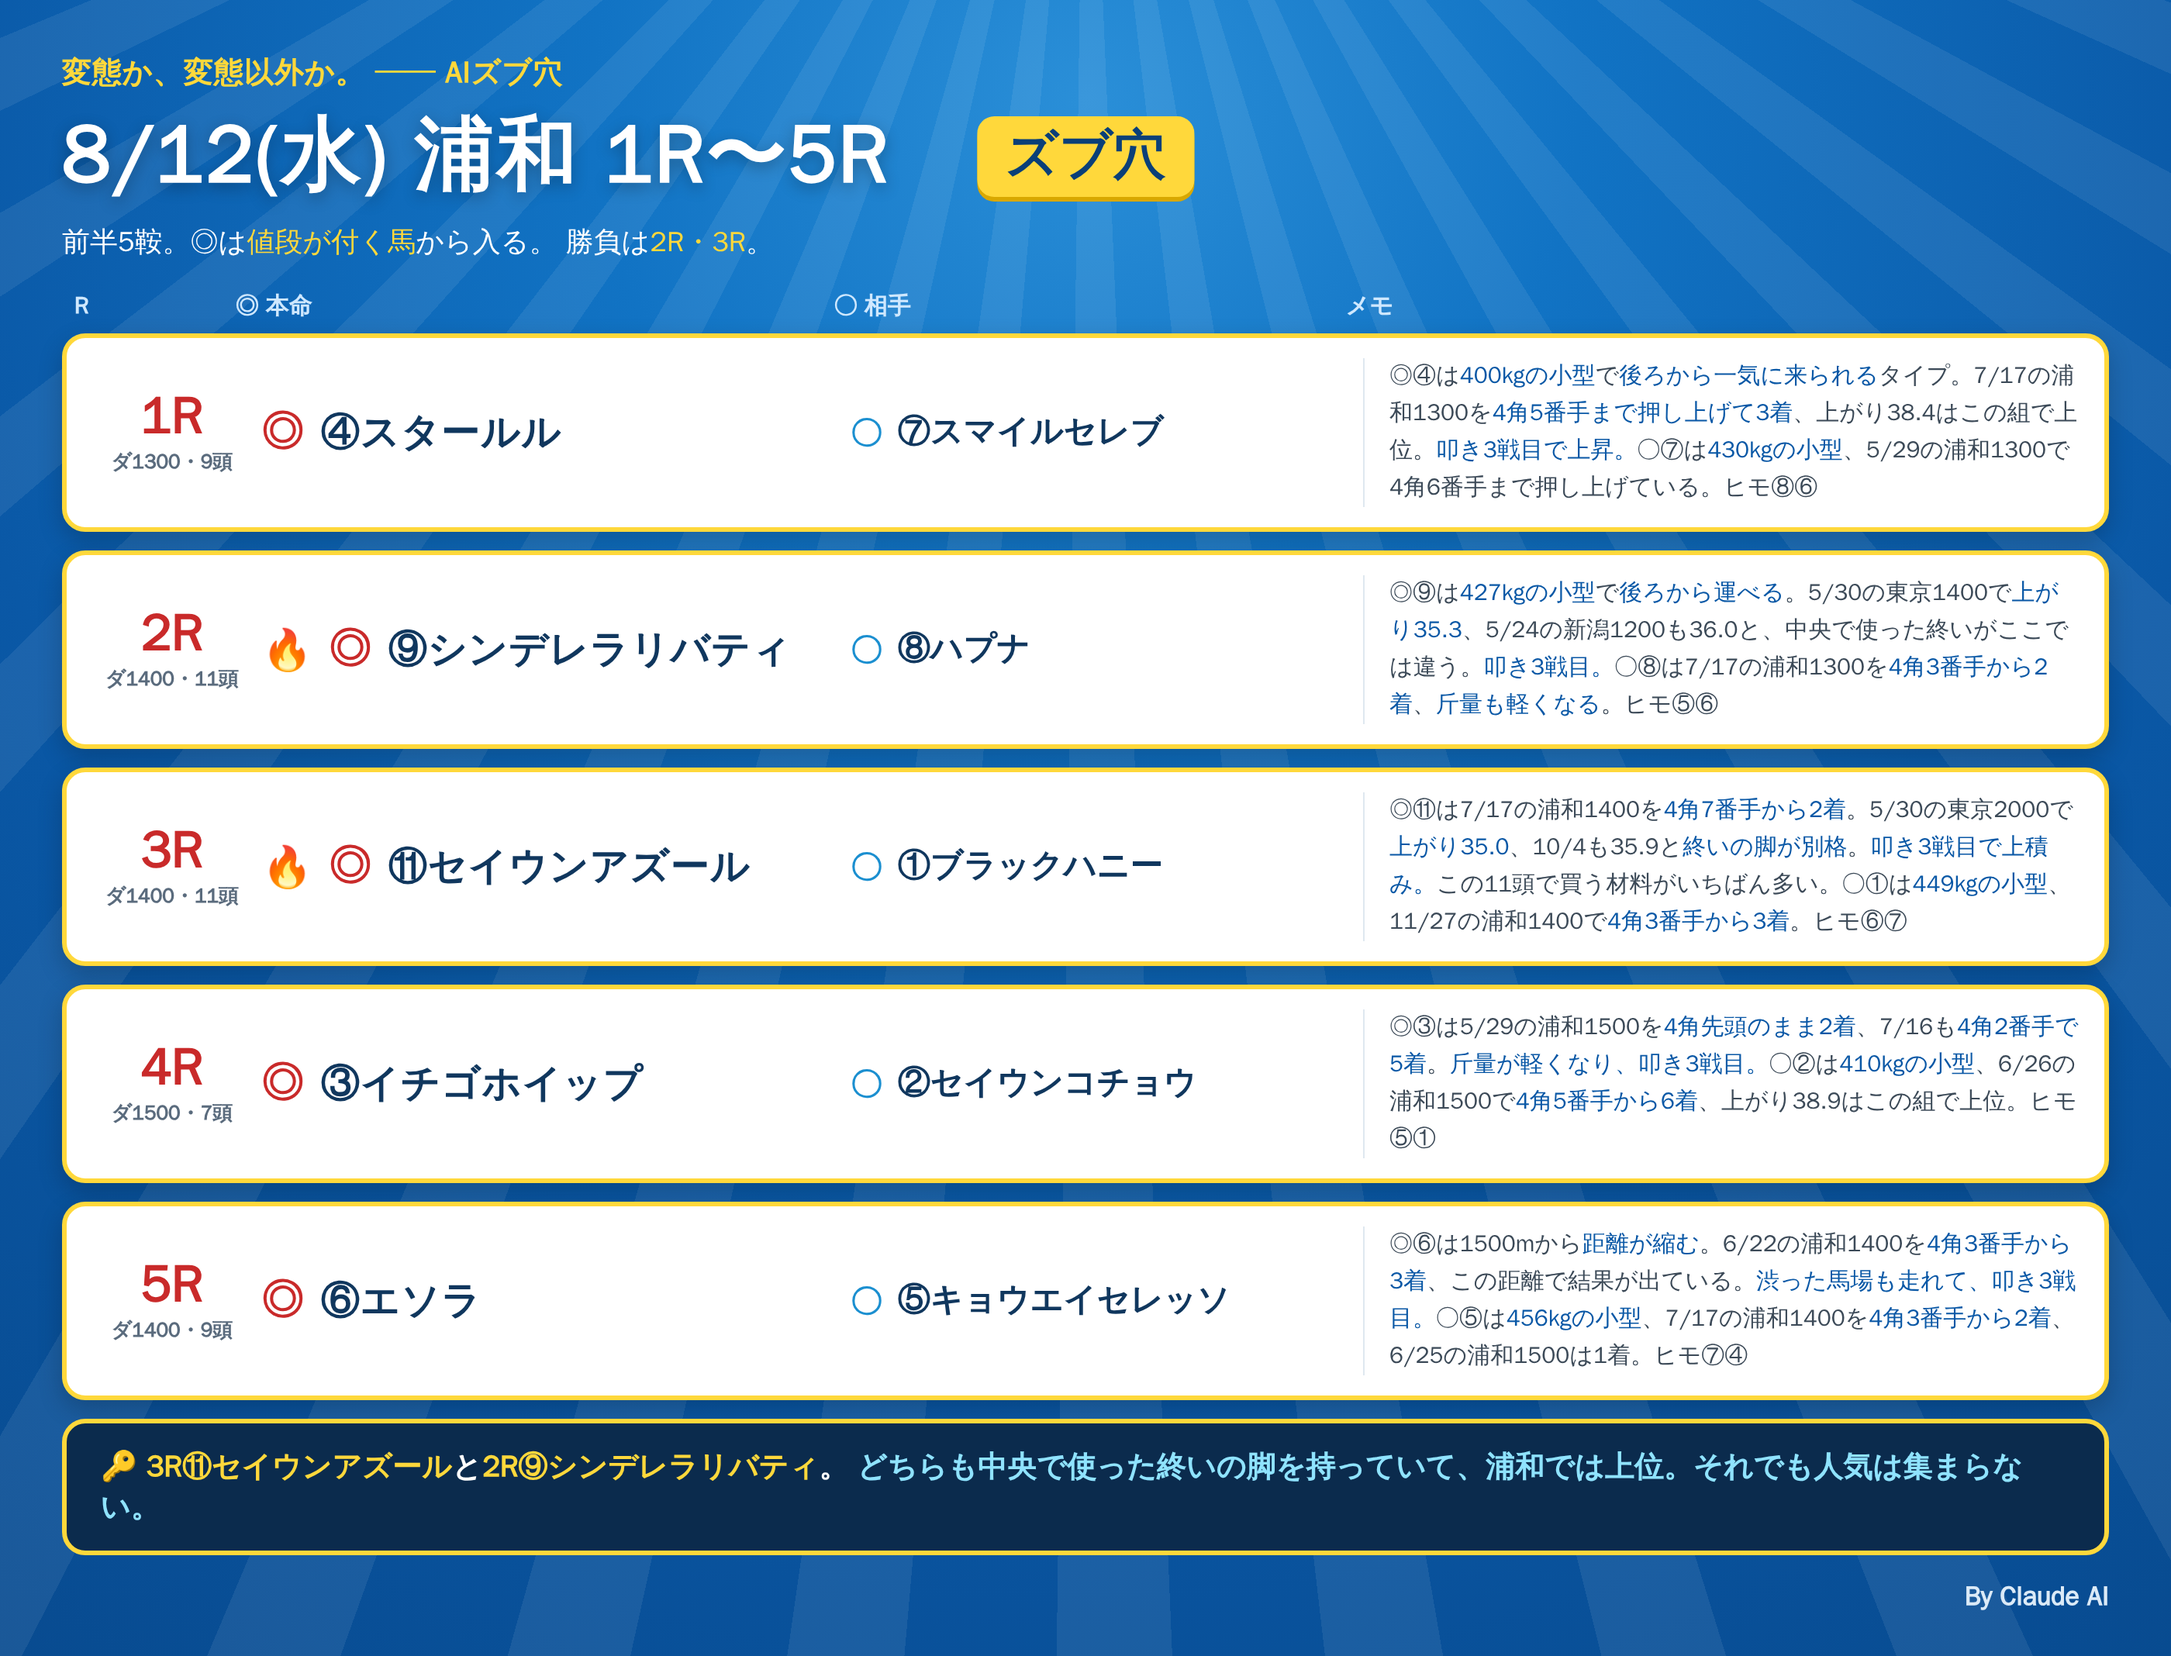
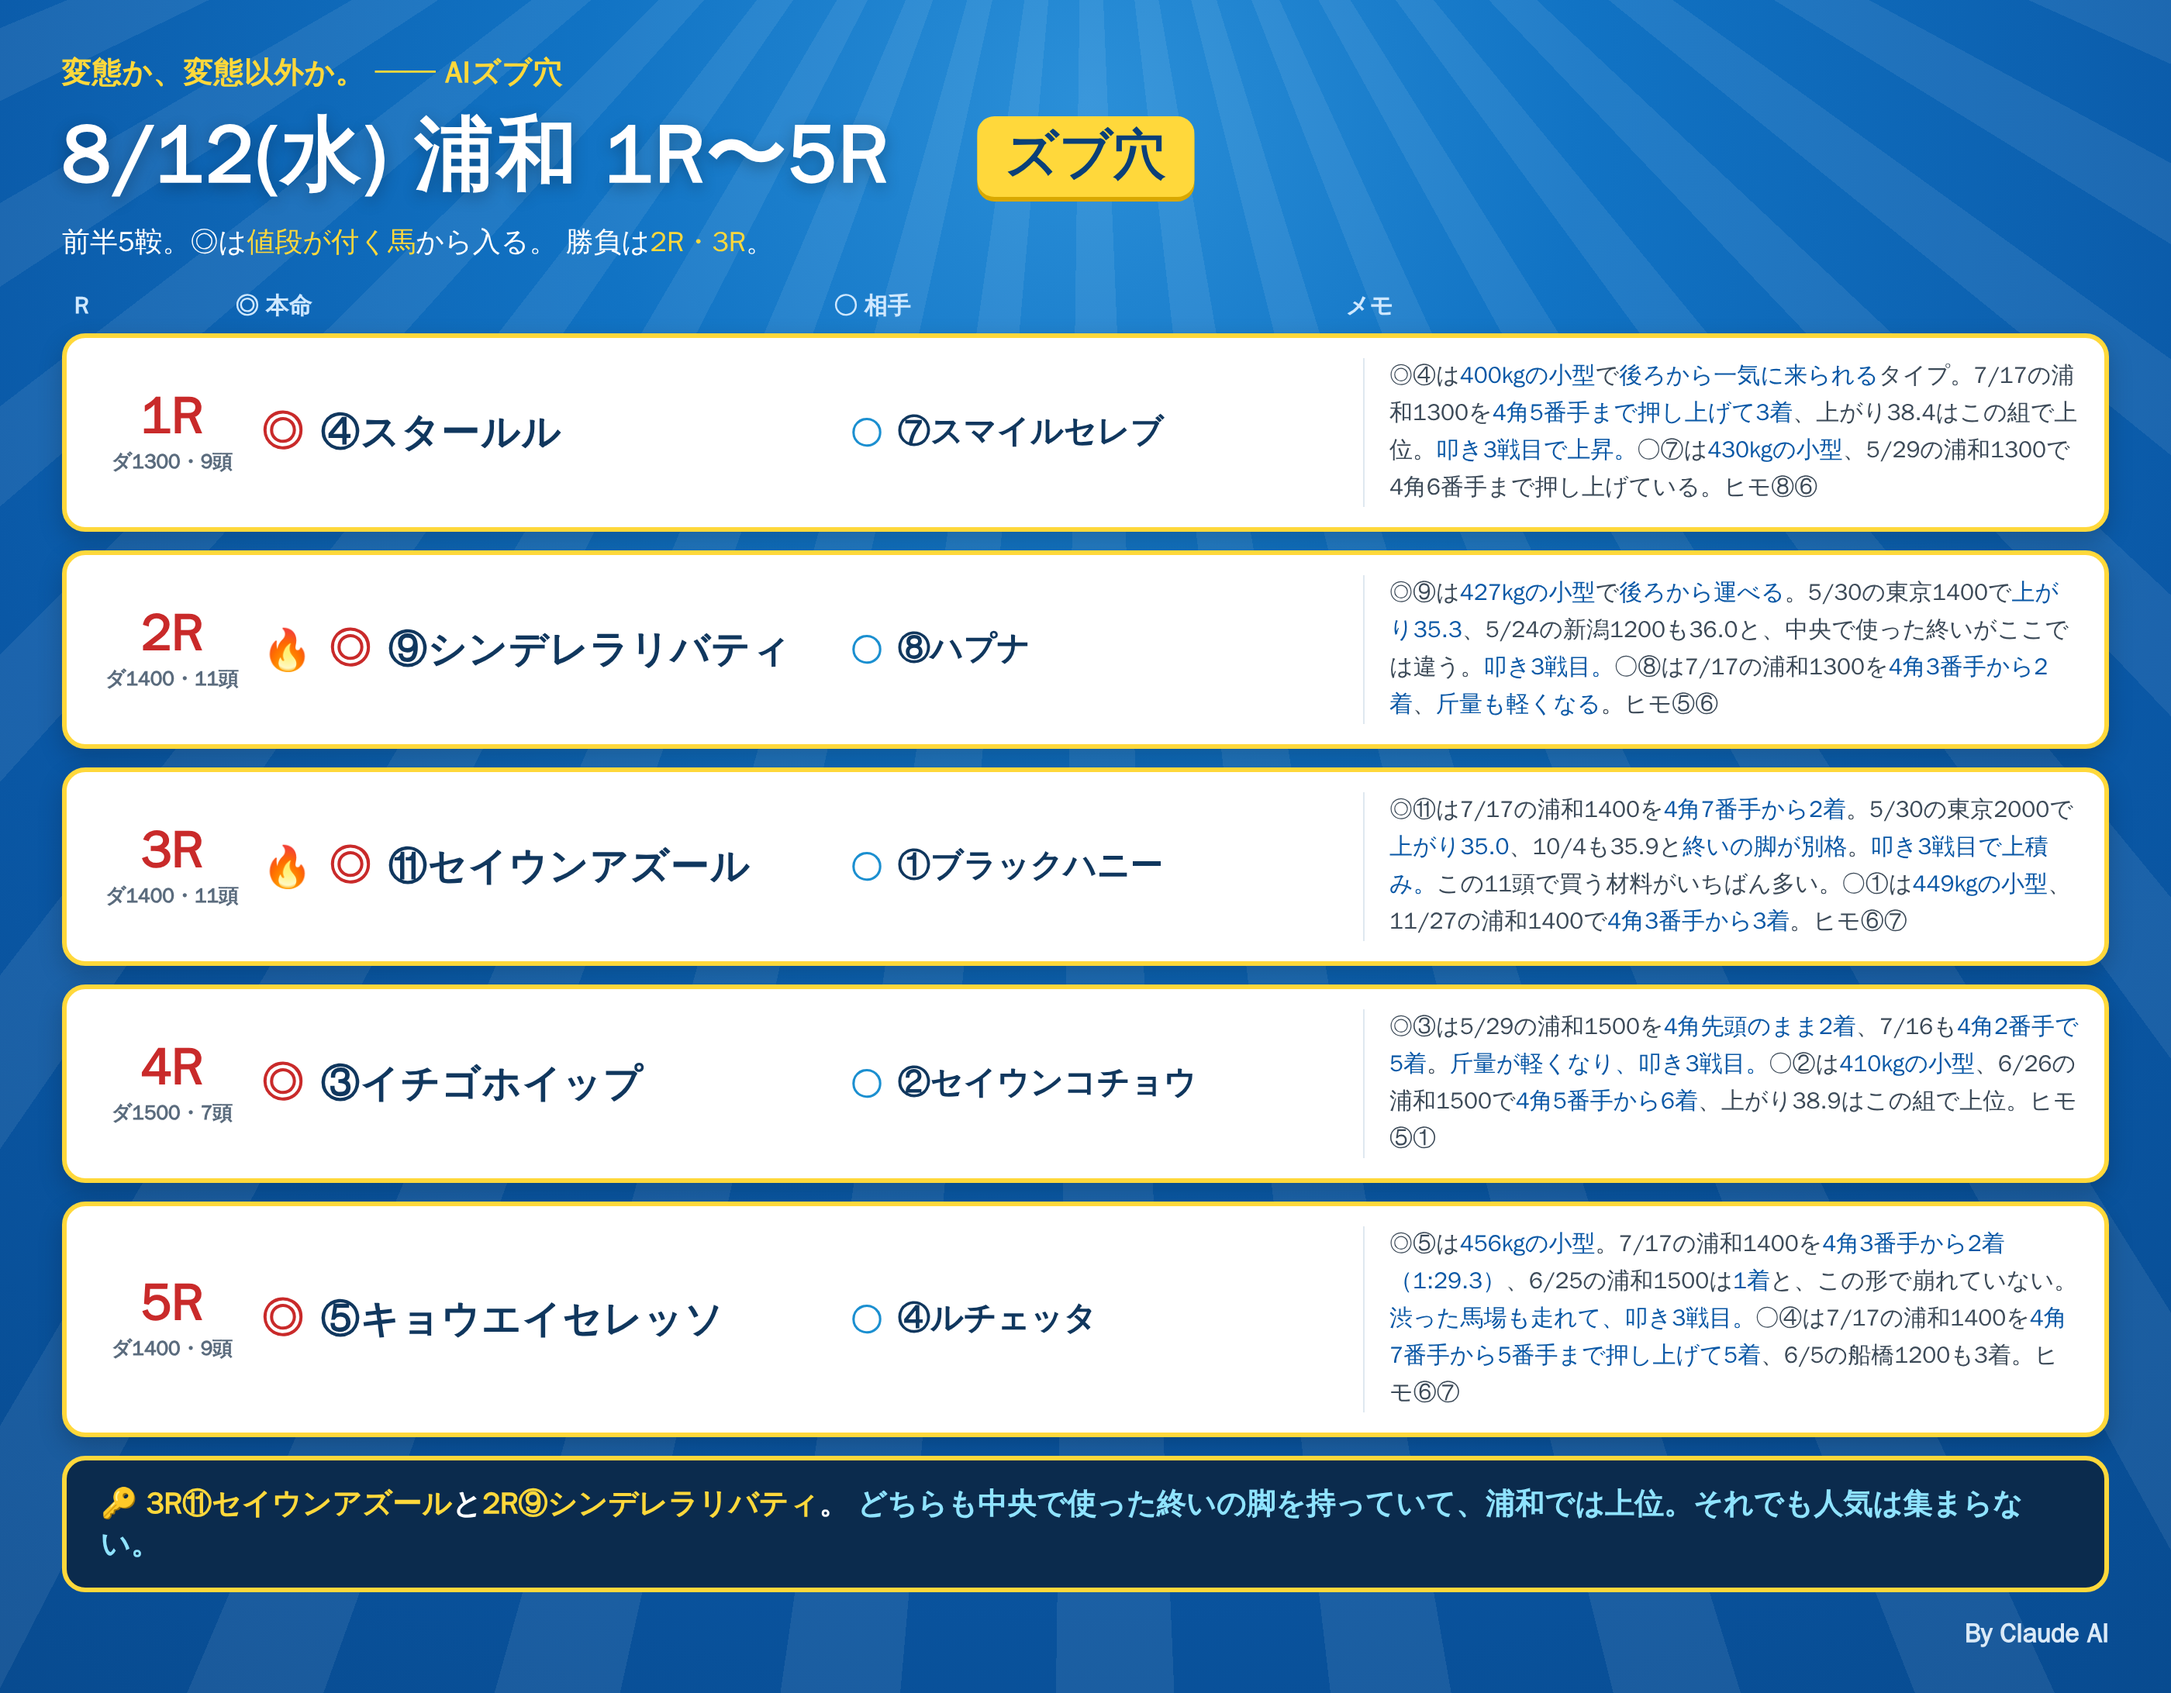
8/12浦和 5R 印変更（◎⑤キョウエイセレッソ ○④ルチェッタ）

diff --git a/notes/live/2026-08-12/urawa_1_5.html b/notes/live/2026-08-12/urawa_1_5.html
@@ -80,9 +80,9 @@
 
   <div class="row">
     <div class="rN"><div class="n">5R</div><div class="d">ダ1400・9頭</div></div>
-    <div class="hm"><span class="mk">◎</span><span class="nm">⑥エソラ</span></div>
-    <div class="at"><span class="mk2">○</span><span class="nm2">⑤キョウエイセレッソ</span></div>
-    <div class="memo">◎⑥は1500mから<b>距離が縮む</b>。6/22の浦和1400を<b>4角3番手から3着</b>、この距離で結果が出ている。<b>渋った馬場も走れて、叩き3戦目。</b>○⑤は<b>456kgの小型</b>、7/17の浦和1400を<b>4角3番手から2着</b>、6/25の浦和1500は1着。ヒモ⑦④</div>
+    <div class="hm"><span class="mk">◎</span><span class="nm">⑤キョウエイセレッソ</span></div>
+    <div class="at"><span class="mk2">○</span><span class="nm2">④ルチェッタ</span></div>
+    <div class="memo">◎⑤は<b>456kgの小型</b>。7/17の浦和1400を<b>4角3番手から2着（1:29.3）</b>、6/25の浦和1500は<b>1着</b>と、この形で崩れていない。<b>渋った馬場も走れて、叩き3戦目。</b>○④は7/17の浦和1400を<b>4角7番手から5番手まで押し上げて5着</b>、6/5の船橋1200も3着。ヒモ⑥⑦</div>
   </div>
 
   <div class="foot">🔑 <span class="y">3R⑪セイウンアズール</span>と<span class="y">2R⑨シンデレラリバティ</span>。
